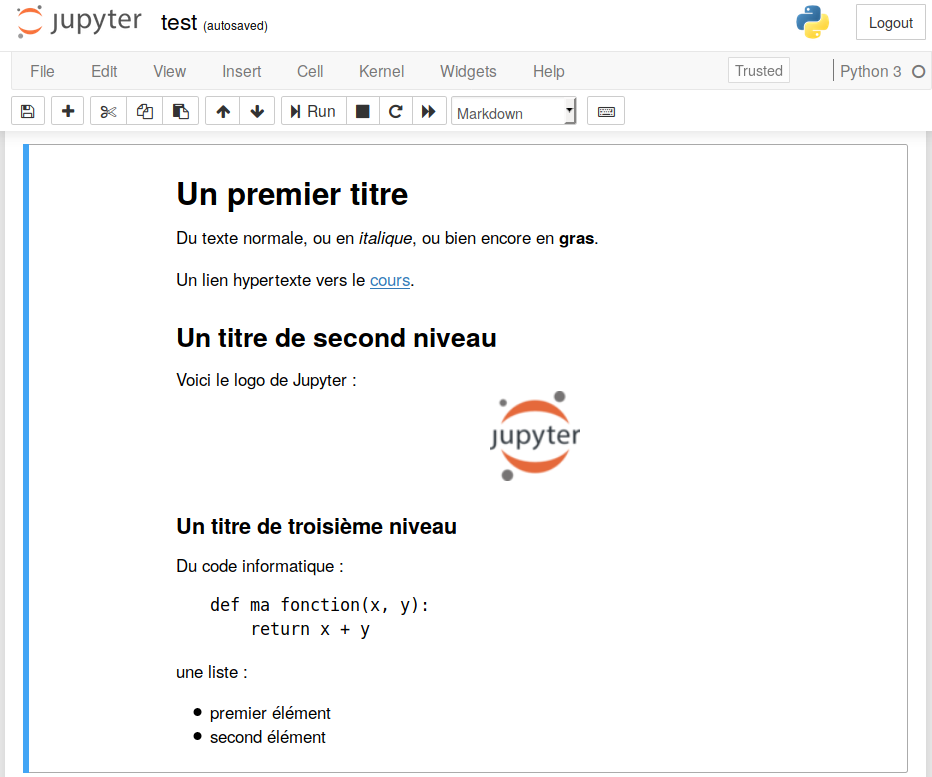
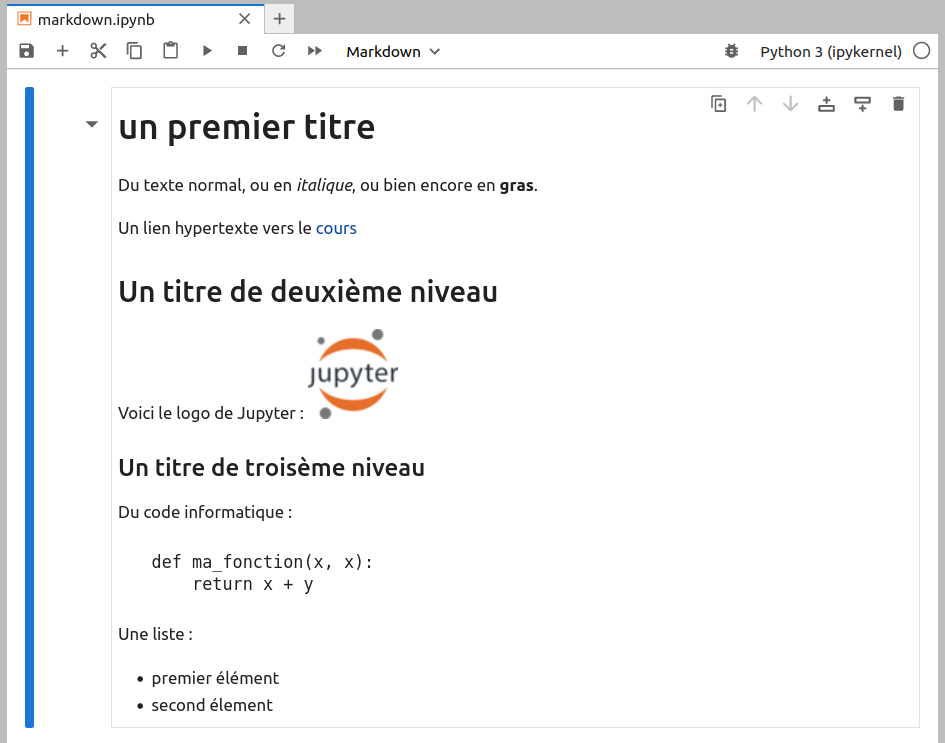
Update Jupyter chapter

diff --git a/18_jupyter.md b/18_jupyter.md
@@ -2,7 +2,7 @@
 
 Les notebooks Jupyter sont des cahiers électroniques qui, dans le même document, peuvent rassembler du texte, des images, des formules mathématiques et du code informatique exécutable. Ils sont manipulables interactivement dans un navigateur web.
 
-Initialement développés pour les langages de programmation Julia, Python et R (d'où le nom Jupyter), les notebooks Jupyter supportent près de 40 langages différents.
+Initialement développés pour les langages de programmation Julia, Python et R (d'où le nom *Jupyter*), les notebooks Jupyter supportent près de 40 langages différents.
 
 La cellule est l'élément de base d'un notebook Jupyter. Elle peut contenir du texte formaté au format Markdown ou du code informatique qui pourra être exécuté.
 
@@ -10,34 +10,44 @@ Voici un exemple de notebook Jupyter (figure @fig:jupyter-exemple) :
 
 ![Exemple de notebook Jupyter. Les chiffres entourés désignent les différentes cellules.](img/jupyter-exemple.png "Exemple de notebook Jupyter"){ #fig:jupyter-exemple width=80% }
 
-Ce notebook est constitué de cinq cellules : deux avec du texte en Markdown (la première et la dernière) et trois avec du code Python (notées avec `In [ ]`).
+Ce notebook est constitué de cinq cellules : deux avec du texte en Markdown (la première et la dernière) et trois avec du code Python (légèrement grisées).
+
 
 ## Installation
 
 Avec la distribution Miniconda, les notebooks Jupyter s'installent avec la commande :
 
 ```bash
-$ conda install -y jupyterlab
+$ conda install -c conda-forge -y jupyterlab
 ```
 
 Pour être exact, la commande précédente installe un peu plus que les notebooks Jupyter mais nous verrons cela par la suite.
 
 
-## Lancement de Jupyter et création d'un notebook
+## JupyterLab
 
-Pour lancer les notebooks Jupyter, utilisez la commande suivante depuis un *shell* :
+En 2018, le consortium Jupyter a lancé *JupyterLab* qui est un environnement complet d'analyse.
+Pour obtenir cette interface, lancez la commande suivante depuis un *shell* :
 
 ```bash
-$ jupyter-notebook
+$ jupyter lab
 ```
 
-Une nouvelle page devrait s'ouvrir dans votre navigateur web  et ressembler à la figure @fig:jupyter-interface.
+Une nouvelle page devrait s'ouvrir dans votre navigateur web et vous devriez
+obtenir une interface similaire à la figure @fig:jupyterlab-1, avec à gauche un navigateur de fichiers et à droite le « *Launcher* » qui permet de créer un nouveau notebook Jupyter, de lancer un terminal ou d'éditer un fichier texte, un fichier Mardown, un script Python...
 
-![Interface de Jupyter.](img/jupyter-interface.png "Interface de Jupyter"){ #fig:jupyter-interface width=80% }
+![Interface de JupyterLab.](img/jupyterlab-1.png "Interface de JupyterLab."){ #fig:jupyterlab-1 width=95% }
 
-Cette interface liste les notebooks Jupyter existants (pour le moment aucun).
+L'interface proposée par JupyterLab est très riche. On peut y organiser un notebook Jupyter, avec éventuellement une figure en encart, un *shell* (voir figure @fig:jupyterlab-2)... Les possibilités sont infinies !
 
-Pour créer un notebook, cliquez sur le bouton à droite *New* puis sélectionnez *Python 3*. Vous noterez au passage qu'il est également possible de créer un fichier texte, un répertoire ou bien encore de lancer un *shell* via un *Terminal* (voir figure @fig:jupyter-nouveau-notebook).
+![JupyterLab comme environnement d'analyse.](img/jupyterlab-2.png "JupyterLab comme environnement d'analyse."){ #fig:jupyterlab-2 width=95% }
+
+
+## Création d'un notebook
+
+Pour créer un notebook, cliquez sur le bouton *Python 3* situé dans la rubrique *Notebook* dans le *Launcher
+
+Vous noterez au passage qu'il est également possible de créer un fichier texte, un répertoire ou bien encore de lancer un *shell* via un *Terminal* (voir figure @fig:jupyter-nouveau-notebook).
 
 ![Création d'un nouveau notebook.](img/jupyter-nouveau-notebook.png "Création d'un nouveau notebook"){ #fig:jupyter-nouveau-notebook width=80% }
 
@@ -45,7 +55,7 @@ Le notebook fraîchement créé ne contient qu'une cellule vide.
 
 ![Nouveau notebook.](img/jupyter-nouveau-notebook-vide.png "Nouveau notebook"){ #fig:jupyter-nouveau-notebook-vide width=80% }
 
-La première chose à faire est de donner un nom à votre notebook en cliquant sur *Untitled*, à droite du logo de Jupyter. Si le nom de votre notebook est *test* alors le fichier *test.ipynb* sera créé dans le répertoire depuis lequel vous avez lancé Jupyter.
+La première chose à faire est de donner un nom à votre notebook. Pour cela cliquer avec le bouton droit de la soris sur *Untitled.ipynb* en haud du notebook. Si le nom de votre notebook est *test.ipynb* alors le fichier *test.ipynb* sera créé dans le répertoire depuis lequel vous avez lancé JupyterLab.
 
 open-box-rem
 
@@ -63,28 +73,28 @@ print(a+b)
 
 Pour exécuter le contenu de cette cellule, vous avez plusieurs possibilités :
 
-- Cliquer sur le menu *Cell*, puis *Run Cells*.
-- Cliquer sur le bouton *Run* (sous la barre de menu).
+- Cliquer sur le menu *Run*, puis *Run Selected Cells*.
+- Cliquer sur le bouton *Run* ▶ (dans la barre de menu au dessus du notebook).
 - Presser simultanément les touches *Ctrl* + *Entrée*.
 
-Dans tous les cas, vous devriez obtenir quelque chose qui ressemble à l'image @fig:jupyter-cellule-1. La notation `In [1]` à gauche de la cellule indique qu'il s'agit de la première cellule exécutée.
+Dans tous les cas, vous devriez obtenir quelque chose qui ressemble à l'image @fig:jupyter-cellule-1. La notation `[1]` à gauche de la cellule indique qu'il s'agit de la première cellule exécutée.
 
 ![Exécution d'une première cellule.](img/jupyter-cellule-1.png "Exécution d'une première cellule."){ #fig:jupyter-cellule-1 width=80% }
 
 Pour créer une nouvelle cellule, vous avez, ici encore, plusieurs possibilités :
 
-- Cliquer sur l’icône *+* sous la barre de menu.
-- Cliquer sur le menu *Insert*, puis *Insert Cell Below*.
+- Cliquer sur l’icône *+* dans la barre de menu.
+- Cliquer sur la 2e icône à partir de la droite (juste à côté de la poubelle) dans la suite d'icônes situées à droite de la cellule.
 
 Une nouvelle cellule vide devrait apparaître.
 
-Vous pouvez également créer une nouvelle cellule en positionnant votre curseur dans la première cellule, puis en pressant simultanément les touches *Alt* + *Entrée*. Si vous utilisez cette combinaison de touches, vous remarquerez que le numéro à gauche de la première cellule est passée de `In [1]` à `In [2]` car vous avez exécuté la première cellule *puis* créé une nouvelle cellule.
+Vous pouvez également créer une nouvelle cellule en positionnant votre curseur dans la première cellule, puis en pressant simultanément les touches *Alt* + *Entrée*. Si vous utilisez cette combinaison de touches, vous remarquerez que le numéro à gauche de la première cellule est passée de `[1]` à `[2]` car vous avez exécuté une nouvelle fois la première cellule *puis* créé une nouvelle cellule.
 
-Vous pouvez ainsi créer plusieurs cellules les unes à la suite des autres. Un objet créé dans une cellule antérieure sera disponible dans les cellules suivantes. Par exemple, dans la figure @fig:jupyter-cellule-4, nous avons quatre cellules. Vous remarquerez que pour les cellules 3 et 4, le résultat renvoyé par le code Python est précédé par `Out [3]` et `Out [4]`.
+Vous pouvez ainsi créer plusieurs cellules les unes à la suite des autres. Un objet créé dans une cellule antérieure sera disponible dans les cellules suivantes. Par exemple, dans la figure @fig:jupyter-cellule-4, nous avons quatre cellules.
 
 ![Notebook avec plusieurs cellules de code Python.](img/jupyter-cellule-4.png "Notebook avec plusieurs cellules de code Python"){ #fig:jupyter-cellule-4 width=80% }
 
-Dans un notebook Jupyter, il est parfaitement possible de réexécuter une cellule précédente. Par exemple la première cellule, qui porte désormais à sa gauche la numérotation `In [5]` (voir figure @fig:jupyter-cellule-4-mauvais-ordre).
+Dans un notebook Jupyter, il est parfaitement possible de réexécuter une cellule précédente. Par exemple la première cellule, qui porte désormais à sa gauche la numérotation `[5]` (voir figure @fig:jupyter-cellule-4-mauvais-ordre).
 
 ![Notebook avec une cellule ré-exécutée.](img/jupyter-cellule-4-mauvais-ordre.png "Notebook avec une cellule ré-executée."){ #fig:jupyter-cellule-4-mauvais-ordre width=80% }
 
@@ -92,7 +102,7 @@ open-box-warn
 
 La possibilité d'exécuter les cellules d'un notebook Jupyter dans un ordre arbitraire peut prêter à confusion, notamment si vous modifiez la même variable d'une cellule à l'autre.
 
-Nous vous recommandons de régulièrement relancer complètement l'exécution de toutes les cellules de votre notebook, de la première à la dernière, en cliquant sur le menu *Kernel* puis *Restart & Run All* et enfin de valider le message *Restart and Run All Cells*.
+Nous vous recommandons de régulièrement relancer complètement l'exécution de toutes les cellules de votre notebook, de la première à la dernière, en cliquant sur le menu *Kernel* puis *Restart Kernel and Run All Cells* et enfin de valider le message *Restart Kernel?* en cliquant sur le bouton *Restart*.
 
 close-box-warn
 
@@ -101,7 +111,7 @@ close-box-warn
 
 Dans le tout premier exemple (figure @fig:jupyter-exemple), nous avons vu qu'il était possible de mettre du texte au format Markdown dans une cellule.
 
-Il faut cependant indiquer à Jupyter que cette cellule est au format Markdown en cliquant sur *Code* sous la barre de menu puis en choisissant *Markdown*.
+Il faut cependant indiquer à Jupyter que cette cellule est au format Markdown en cliquant sur *Code* sous la barre de menu au dessus du notebook puis en choisissant *Markdown*.
 
 Le format Markdown permet de rédiger du texte formaté (gras, italique, liens, titres, images, formules mathématiques...) avec quelques balises très simples. Voici un exemple dans une notebook Jupyter (figure @fig:jupyter-markdown-1) et le rendu lorsque la cellule est exécutée (figure @fig:jupyter-markdown-2).
 
@@ -109,37 +119,36 @@ Le format Markdown permet de rédiger du texte formaté (gras, italique, liens, 
 
 ![Notebook avec une cellule au format Markdown (après exécution).](img/jupyter-markdown-2.png "Notebook avec une cellule au format Markdown (après exécution)."){ #fig:jupyter-markdown-2 width=80% }
 
-Notez qu'une cellule Markdown n'a pas le marqueur `In [ ]` à sa gauche.
+Notez qu'une cellule Markdown est sur fond blanc.
 
-Le format Markdown permet de rapidement et très simplement rédiger du texte structuré. Ce cours est par exemple complètement rédigé en Markdown ;-)
+Le format Markdown permet de rapidement et très simplement rédiger du texte structuré. Ce cours est par exemple complètement rédigé en Markdown.
 
 Nous vous conseillons d'explorer les possibilités du Markdown en consultant la page [Wikipédia](https://fr.wikipedia.org/wiki/Markdown) ou directement la [page de référence](https://daringfireball.net/projects/markdown/syntax).
 
 
 ## Des graphiques dans les notebooks
 
-Un autre intérêt des notebooks Jupyter est de pouvoir y incorporer des graphiques réalisés avec la bibliothèque *matplotlib*.
+Un autre intérêt des notebooks Jupyter est de pouvoir y incorporer des graphiques réalisés avec la bibliothèque *matplotlib* (que nous verrons prochainement).
 
-Voici un exemple en reprenant un graphique présenté dans le chapitre 17 *Quelques modules d'intérêt en bioinformatique* (figure @fig:jupyter-matplotlib).
+Voici un exemple en reprenant un graphique présenté dans le chapitre 21 *Module Matplotlib* (figure @fig:jupyter-matplotlib).
 
 ![Incorporation d'un graphique dans un notebook Jupyter.](img/jupyter-matplotlib.png "Incorporation d'un graphique dans un notebook Jupyter."){ #fig:jupyter-matplotlib width=80% }
 
-La différence notable est l'utilisation de la commande :  
-`%matplotlib inline`  
-qui n'est à lancer qu'une seule fois (en général dans la première cellule du notebook) et qui permet l'incorporation de figures dans un notebook Jupyter.
+L'utilisation de `%matplotlib inline` n'est pas nécessaire dans les versions récentes de Jupyter Lab. Mais d'anciennes versions, vous pourriez en avoir besoin pour que les graphiques s'affichent correctement dans le notebook.
 
 open-box-rem
 
-Pour quitter l'interface des notebooks Jupyter, il faut, dans le premier onglet qui est apparu, cliquer sur le bouton *Quit* (figure @fig:jupyter-interface).
+Pour quitter l'interface Jupyter Lab, il y a plusieurs possibilités :
 
-Une méthode plus radicale est de revenir sur le *shell* depuis lequel les notebooks Jupyter ont été lancés puis de presser deux fois la combinaison de touches *Ctrl* + *C*.
+- Dans le menu en haut à gauche de l'interface, cliquer sur *File*, puis *Shut Down*, puis confrimer en cliquant sur le bouton "Shut Down".
+- Une méthode plus radicale est de revenir sur le *shell* depuis lequel JupyterLab a été lancé, puis de presser deux fois de suite la combinaison de touches *Ctrl* + *C*.
 
 close-box-rem
 
 
 ## Les *magic commands*
 
-La commande précédente (`%matplotlib inline`) est une *magic command*. Il en existe beaucoup, en voici deux :
+La commande précédente (`%matplotlib inline`) est une *magic command*. Les *magic commands* apportent des fonctionnalités supplémentaire dans un notebook. Il en existe beaucoup, en voici quelques unes :
 
 - `%whos` liste tous les objets (variables, fonctions, modules...) utilisés dans le notebook (voir figure @fig:jupyter-whos).
 - `%history` liste toutes les commandes Python lancées dans un notebook (voir figure @fig:jupyter-history).
@@ -148,7 +157,27 @@ La commande précédente (`%matplotlib inline`) est une *magic command*. Il en e
 
 ![*Magic command* `%history`.](img/jupyter-history.png){ #fig:jupyter-history width=80% }
 
-Enfin, avec les environnements Linux ou Mac OS X, il est possible de lancer une commande Unix depuis un notebook Jupyter. Il faut pour cela précéder la commande du symbole « `!` ». La figure @fig:jupyter-ls illustre cette possibilité avec la commande `ls` qui affiche le contenu d'un répertoire.
+La commande `%%time` (avec deyx symboles `%`) va mesurer le temps d'exécution d'une cellule. C'est très utile pour faire des tests de performance. Par exemple :
+
+```python
+%%time
+concentrations = [5.5, 7.2, 11.8, 13.6, 19.1, 21.7, 29.4]
+for conc in concentrations:
+    print(conc)
+```
+
+renvoie le résultat de la figure @fig:jupyter-time. Bien sûr les valeurs obtenues dépendent de la machine sur laquelle vous exécutez cette commande. Mais même en utilisant une même machine, les résultats peuvent fluctuer d'une exécution à l'autre en fonction de l'activité de la machine. Ces fluctuations seront d'autant plus importantes que le temps d'exécution est court.
+
+![*Magic command* `%%time`.](img/jupyter-time.png){ #fig:jupyter-time width=80% }
+
+Pour palier à ce problème, la *magic command* `%%timeit` va exécuter plusieurs fois la cellule et donner une estimation du temps d'exécution moyen. Dans l'exemple de la figure @fig:jupyter-timeit, on compare le un parcours de liste avec une boucle `for`, soit directement sur les éléments, soit sur les indices des éléments. Python détermine automatiquement le nombre d'itérations et le nombre de répétions à effectuer pour obtenir un temps d'exécution raisonnable. Ici, chaque cellule sera exécutée un million de fois sur sept répétitions. Comme nous l'avions expliqué dans le chapitre 5. *Boucles et comparaisons*, itérer une liste sur ses éléments est la méthode la plus efficace (et la plus élégante).
+
+![*Magic command* `%%timeit`.](img/jupyter-timeit.png){ #fig:jupyter-time width=80% }
+
+
+## Lancement d'une commande Unix
+
+Enfin, dans les environnements Linux ou Mac OS X, il est possible de lancer une commande Unix depuis un notebook Jupyter. Il faut pour cela précéder la commande du symbole « `!` ». La figure @fig:jupyter-ls illustre cette possibilité avec la commande `ls` qui affiche le contenu d'un répertoire.
 
 ![Lancement d'une commande Unix.](img/jupyter-ls.png){ #fig:jupyter-ls width=80% }
 
@@ -161,26 +190,10 @@ Pour vous en rendre compte, jetez un œil au [notebook](https://github.com/Maaya
 close-box-rem
 
 
-## JupyterLab
 
-En 2018, le consortium Jupyter a lancé *JupyterLab* qui est un environnement complet d'analyse.
-Pour obtenir cette interface, lancez la commande suivante depuis un *shell* :
-
-```bash
-$ jupyter lab
-```
-
-Une nouvelle page devrait s'ouvrir dans votre navigateur web et vous devriez
-obtenir une interface similaire à la figure @fig:jupyterlab-1.
-
-![Interface de JupyterLab.](img/jupyterlab-1.png "Interface de JupyterLab."){ #fig:jupyterlab-1 width=95% }
-
-L'interface proposée par JupyterLab est très riche. On peut y organiser un notebook Jupyter « classique » avec une figure en encart, un *shell* (voir figure @fig:jupyterlab-2)... Les possibilités sont infinies !
-
-![JupyterLab comme environnement d'analyse.](img/jupyterlab-2.png "JupyterLab comme environnement d'analyse."){ #fig:jupyterlab-2 width=95% }
 
 open-box-more
 
-Les *notebooks* Jupyter sont particulièrement adaptés à l'analyse de données en combinaison avec les modules *matplotlib* et *pandas*.
+Les *notebooks* Jupyter sont particulièrement adaptés à l'analyse de données en combinaison avec les modules *Matplotlib* et *Pandas* que nous verrons dans les prochaines chapitres.
 
 close-box-more
